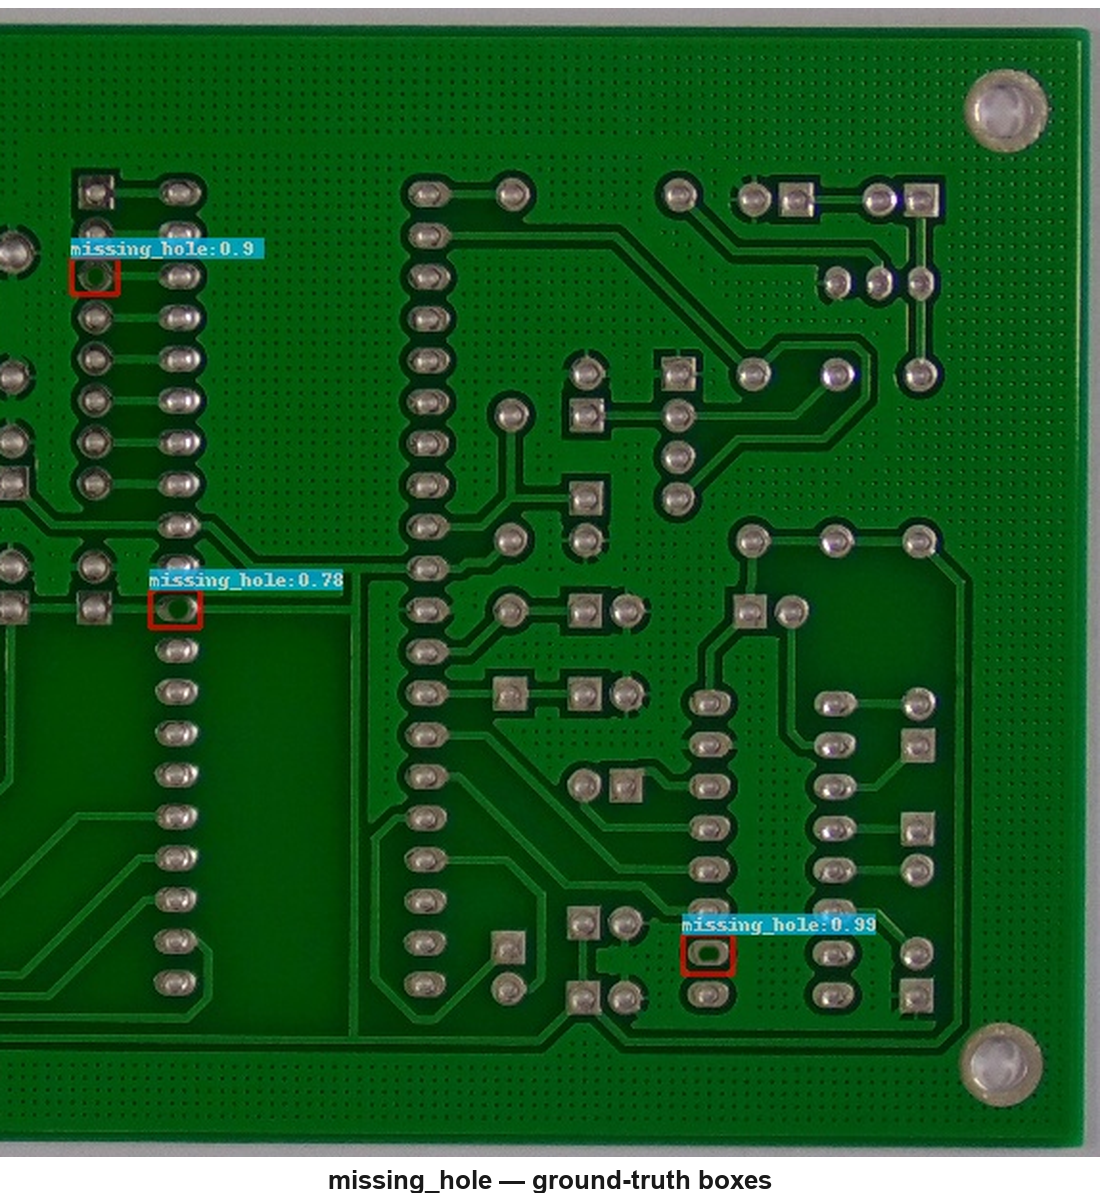
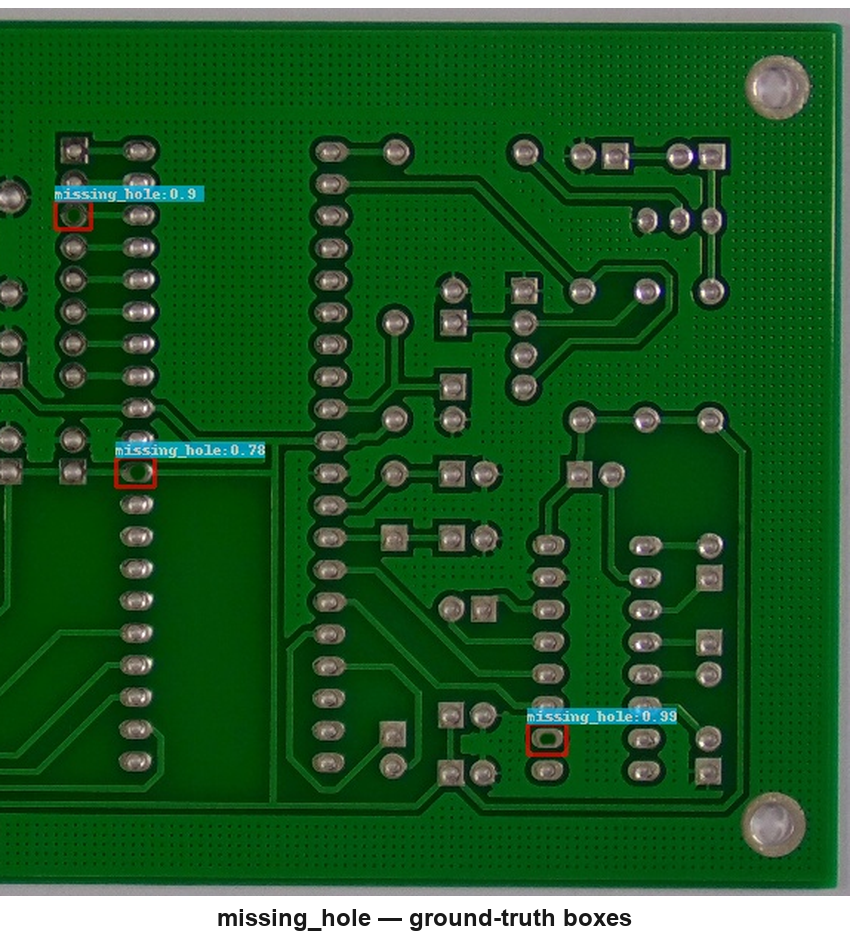
README: single  missing_hole gallery image

diff --git a/README.md b/README.md
@@ -1,11 +1,10 @@
 # lld-net-pcb-ml — LLD-Net PCB experiments
 
 <p align="center">
-  <img src="docs/images/pcb_missing_hole.png" width="98%" alt="missing_hole defects with bounding boxes" /><br/>
-  <img src="docs/images/pcb_mouse_bite.png" width="98%" alt="mouse_bite defect with bounding box" />
+  <img src="docs/images/pcb_missing_hole.png" width="78%" alt="missing_hole defects with bounding boxes" />
 </p>
 
-<p align="center"><sub>PKU-Market-PCB (600×600 crops) — red boxes = ground truth, labels show class and score.</sub></p>
+<p align="center"><sub>PKU-Market-PCB (600×600 crop) — red boxes = ground truth, labels show class and score.</sub></p>
 
 [![GitHub Repo](https://img.shields.io/badge/GitHub-lld--net--pcb--ml-181717?logo=github)](https://github.com/usarrahim/lld-net-pcb-ml)
 [![Python 3.10+](https://img.shields.io/badge/python-3.10+-blue.svg)](https://www.python.org/downloads/)
